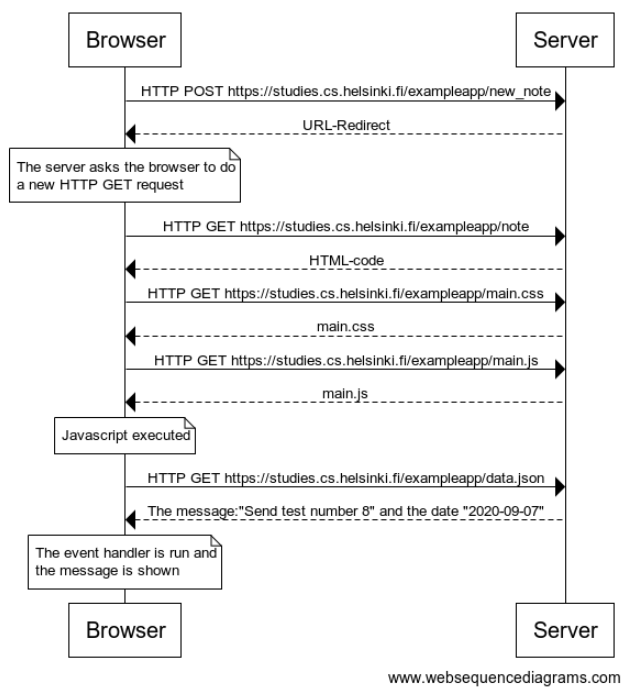
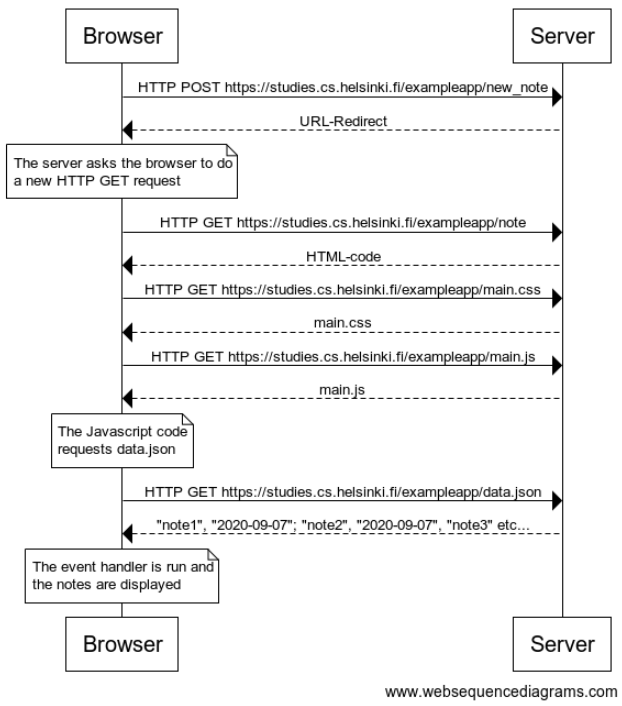
Edit exercise 0.4

Changed region(s): [[0.0, 0.0, 1.0, 1.0]]

diff --git a/Part0/Exercise 0.4.md b/Part0/Exercise 0.4.md
@@ -1,6 +1,6 @@
-Browser->Server: HTTP POST https://studies.cs.helsinki.fi/exampleapp/new_note  
+Browser->Server: HTTP POST https://studies.cs.helsinki.fi/exampleapp/new_note    
 Server-->Browser: URL-Redirect  
-
+  
 note over Browser:  
 The server asks the browser to do  
 a new HTTP GET request  
@@ -14,15 +14,16 @@ Browser->Server: HTTP GET https://studies.cs.helsinki.fi/exampleapp/main.js
 Server-->Browser: main.js  
   
 note over Browser:  
-Javascript executed  
+The Javascript code  
+requests data.json
 end note  
   
 Browser->Server: HTTP GET https://studies.cs.helsinki.fi/exampleapp/data.json  
-Server-->Browser: The message:"Send test number 8" and the date "2020-09-07"  
+Server-->Browser: "note1", "2020-09-07"; "note2", "2020-09-07", "note3" etc...  
   
 note over Browser:  
 The event handler is run and  
-the message is shown  
+the notes are displayed 
 end note  
-
+  
 ![Sequence diagram](/assets/Exercise_0.4.png)
